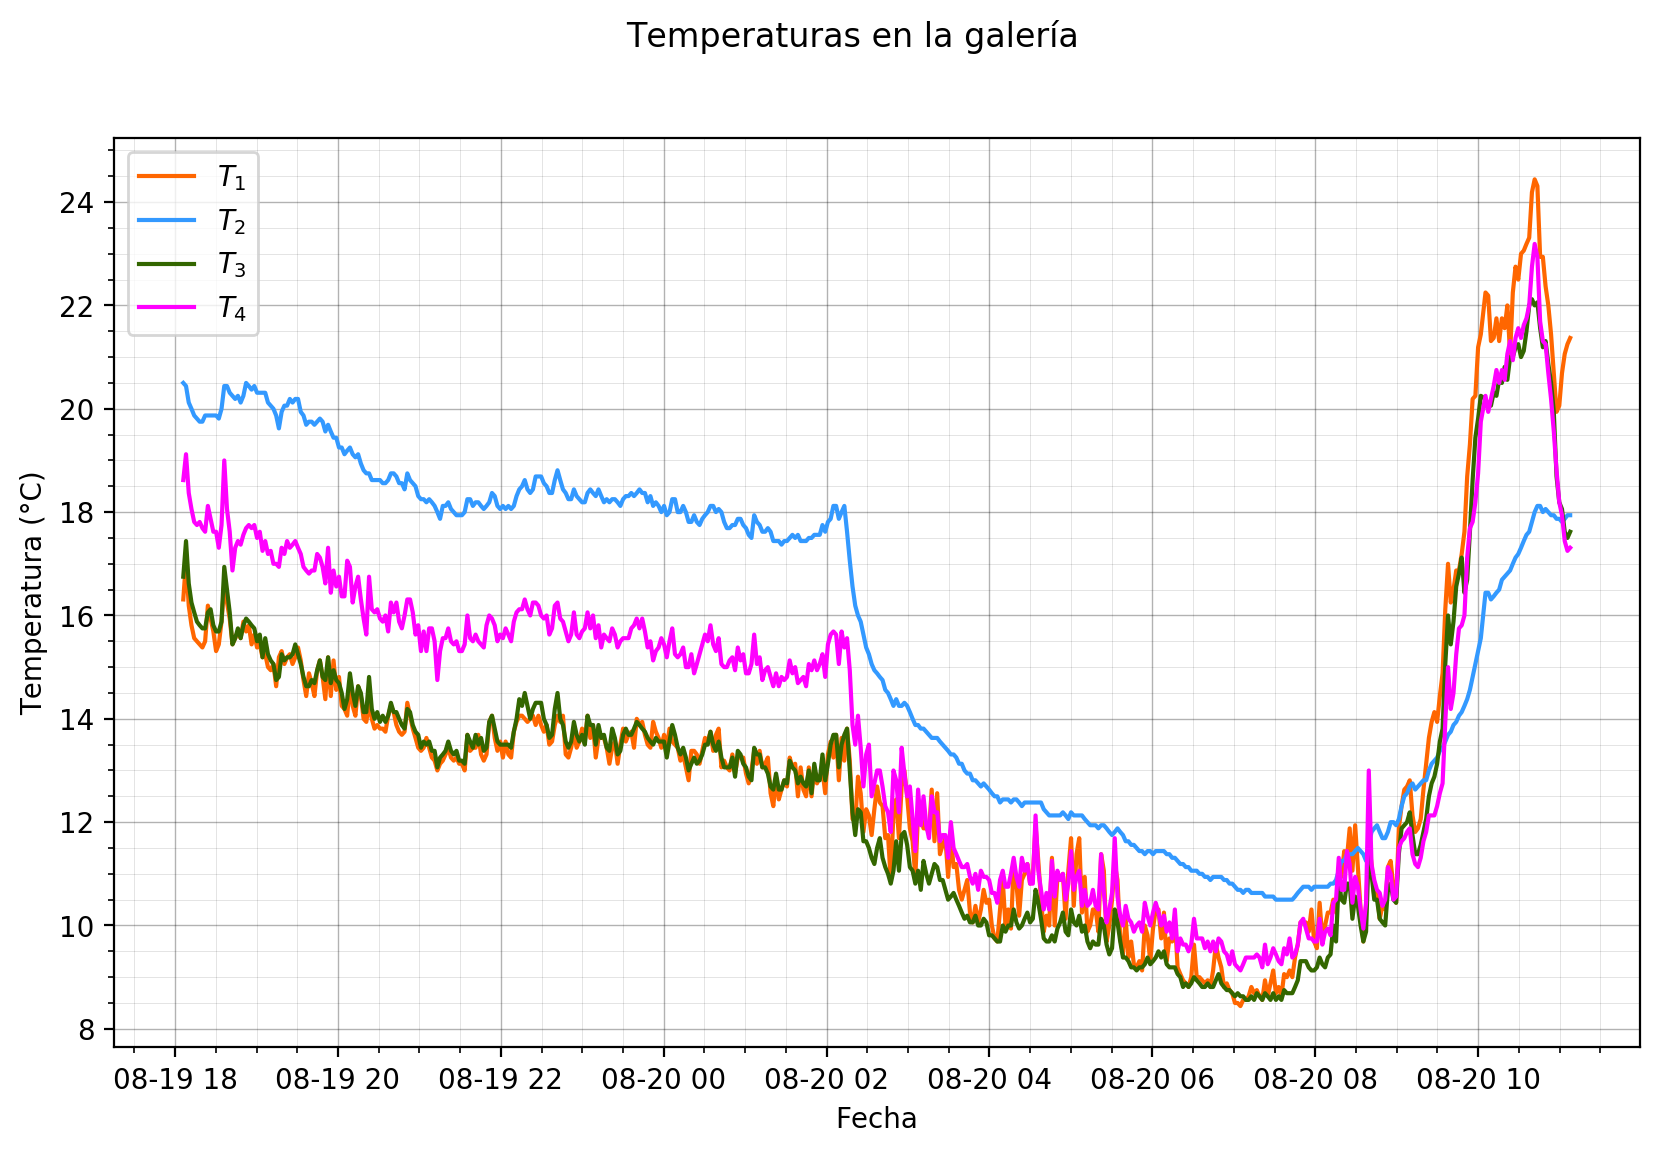
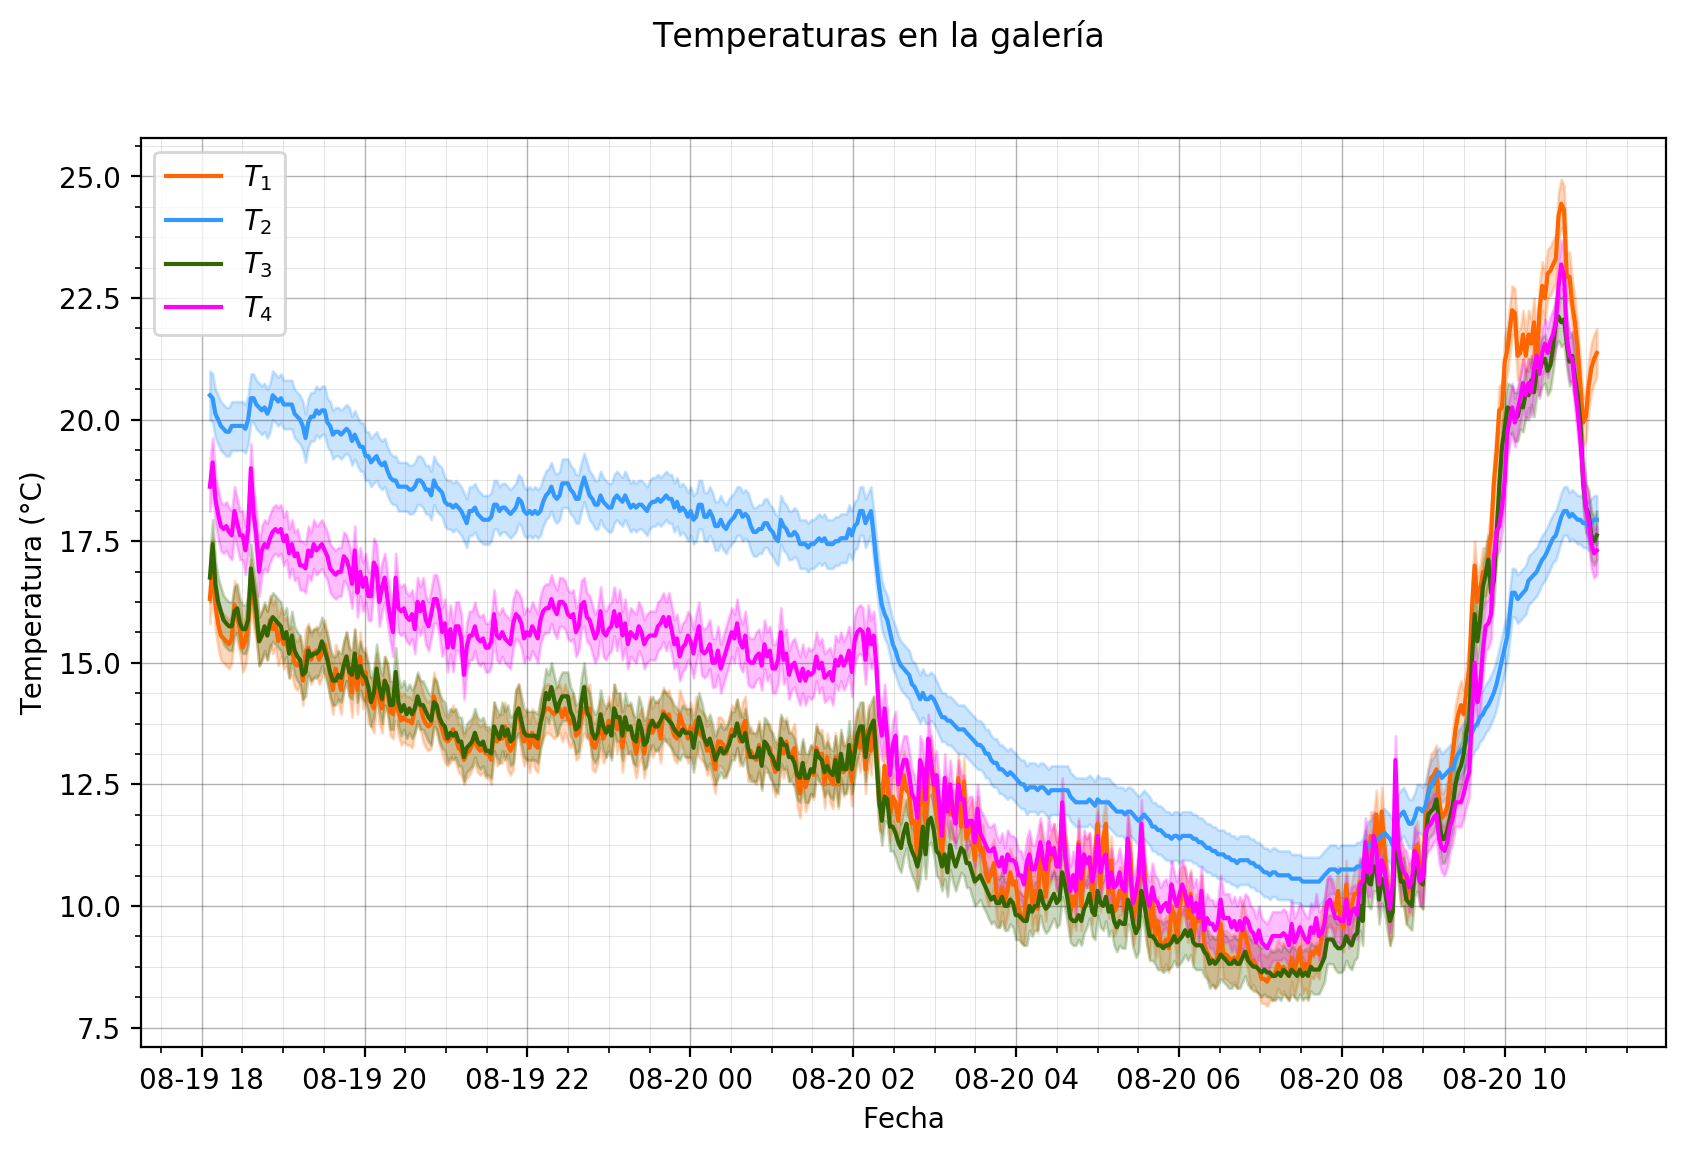
Agregué las bandas de error al gráfico.

diff --git a/plot_data.py b/plot_data.py
@@ -2,6 +2,8 @@ import numpy as np
 import datetime as dt
 import matplotlib.pyplot as plt
 import utils.my_plot_lib as mplt
+import uncertainties as unc
+from uncertainties import unumpy as unp
 
 figs = [] # Do not touch this.
 
@@ -13,13 +15,15 @@ for k in range(len(data)):
 	time[k] = dt.datetime(year=int(data[k][0]), month=int(data[k][1]), day=int(data[k][2]), hour=int(data[k][3]), minute=int(data[k][4]), second=int(data[k][5]))
 	temperatures[k] = data[k][6:].tolist()
 temperatures = list(map(list, zip(*temperatures))) # Transpose list.
+for k in range(len(temperatures)):
+	temperatures[k] = unp.uarray(temperatures[k], np.zeros(len(temperatures[k])) + 0.5) # This is the uncertainty in the datasheet https://datasheets.maximintegrated.com/en/ds/DS18B20.pdf
 # Plot data -----------------------
 f, axes = plt.subplots(1, sharex=True, figsize=(mplt.fig_width*mplt.fig_ratio[0]/25.4e-3, mplt.fig_width*mplt.fig_ratio[1]/25.4e-3)) # Create the figure for plotting.
 figs.append(f)
 f.subplots_adjust(hspace=0.3) # Fine-tune figure; make subplots close to each other and hide x ticks for all but bottom plot.
 f.suptitle('Temperaturas en la galería')
 for k in range(len(temperatures)):
-	axes.plot(time, temperatures[k], color=mplt.colors[k], label=r'$T_{:d}$'.format(k+1))
+	mplt.plot_yerr_filled(time, temperatures[k], axes, color=mplt.colors[k], label=r'$T_{:d}$'.format(k+1))
 mplt.beauty_grid(axes)
 axes.legend()
 axes.set_xlabel('Fecha')
